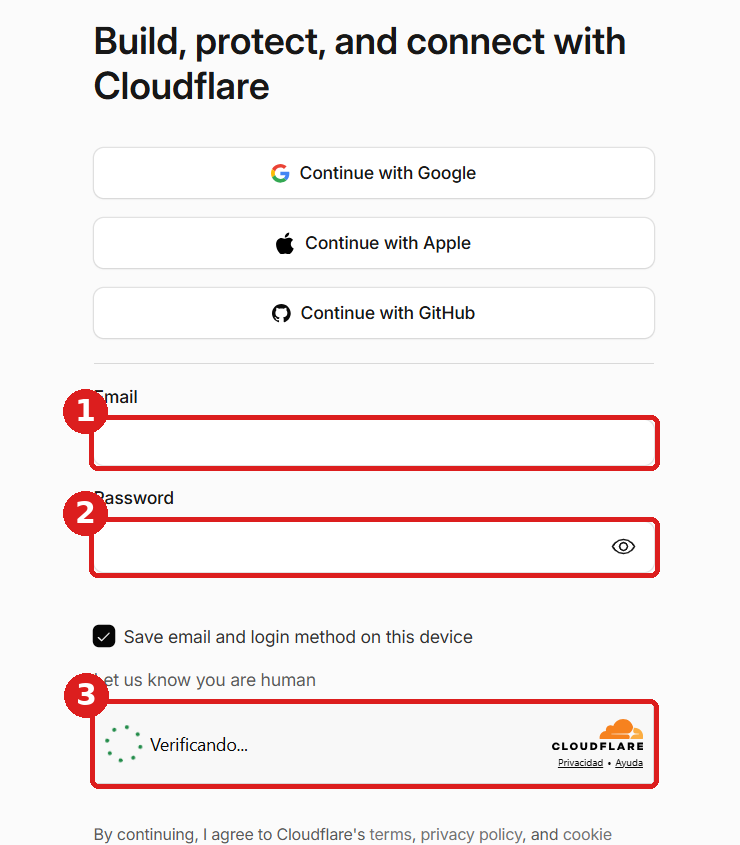
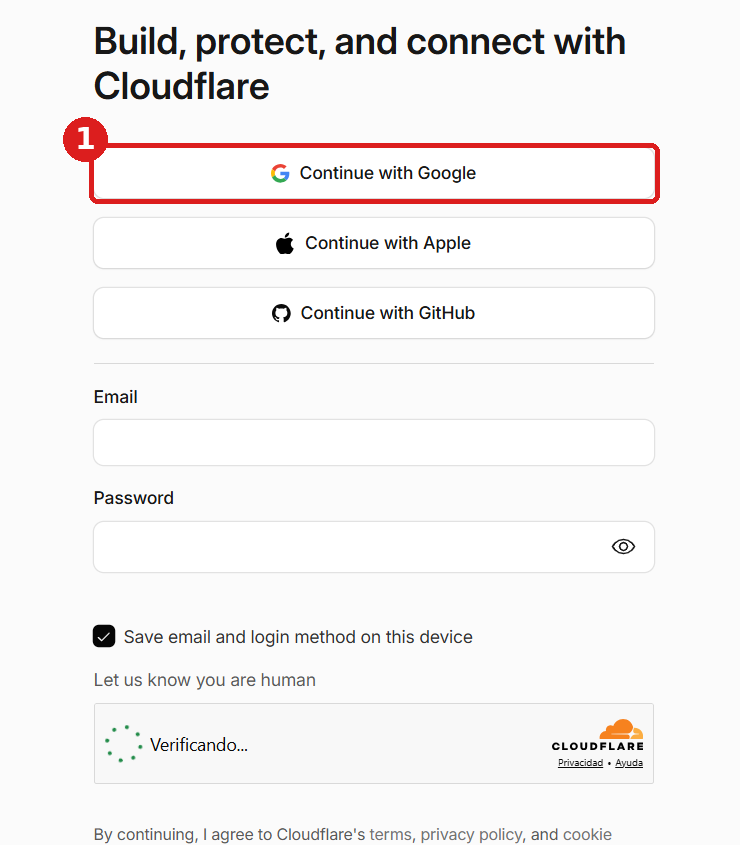
Versión 0.1.0 (2026-10-20)

diff --git a/herramientas/carpeta/marcar_capturas.py b/herramientas/carpeta/marcar_capturas.py
@@ -28,7 +28,7 @@ CAPTURAS = {
     'github-secretos': ('a824c1d8-image.png', (0, 0, 1560, 910), [(805, 58, 895, 98, '1'), (374, 688, 614, 716, '2'), (370, 718, 614, 747, '3'), (999, 604, 1164, 644, '4')], [(88, 21, 162, 47)]),
     'github-secreto-nuevo': ('45298c87-image.png', (620, 100, 1530, 560), [(643, 228, 1512, 264, '1'), (643, 296, 1512, 497, '2'), (642, 506, 738, 542, '3')], []),
     'supabase-entrar': ('5947f649-image.png', (0, 60, 740, 960), [(122, 297, 610, 358, '1')], [(128, 616, 604, 658), (128, 714, 604, 756)]),
-    'cloudflare-registro': ('9421675e-image.png', (560, 120, 1300, 965), [(649, 535, 1219, 590, '1'), (649, 637, 1219, 697, '2'), (650, 819, 1218, 908, '3')], []),
+    'cloudflare-registro': ('9421675e-image.png', (560, 120, 1300, 965), [(649, 263, 1219, 323, '1')], []),
     'github-instalar-formulario': ('98b6c0b6-image.png', (1466, 62, 1912, 970), [(1477, 211, 1903, 246, '1'), (1477, 300, 1903, 335, '2'), (1477, 389, 1903, 424, '3'), (1477, 478, 1903, 514, '4'), (1789, 925, 1904, 962, '5')], []),
     'supabase-autorizar': ('81666ce3-image.png', (690, 90, 1200, 680), [(943, 465, 1157, 503, '1')], [(730, 316, 1000, 352)]),
     'supabase-organizacion': ('ca38d780-image.png', (530, 110, 1390, 675), [(824, 250, 1361, 302, '1'), (826, 392, 1359, 439, '2'), (826, 509, 1359, 556, '3'), (1187, 618, 1361, 658, '4')], [(838, 262, 1010, 292)]),

diff --git a/herramientas/carpeta/armar_carpeta.py b/herramientas/carpeta/armar_carpeta.py
@@ -113,9 +113,9 @@ def hoja_html():
             tilde('D2', 'Llave «Instalador» cargada en GitHub como SUPABASE_ACCESS_TOKEN (la llave no se anota)'),
         ]),
         bloque('E', 'Cloudflare (paso 5)', [
-            fila('E1', 'Contraseña'), fila('E2', 'Dónde están los backup codes'),
-            fila('E3', 'Vencimiento de la llave «Instalador»', 8, 'Si no tiene, escribí «no vence»'),
-            tilde('E4', 'Llave cargada en GitHub como CLOUDFLARE_API_TOKEN (la llave no se anota)'),
+            tilde('E1', 'Se entra con «Continue with Google» y el Gmail de la institución (B1): no tiene contraseña propia'),
+            fila('E2', 'Vencimiento de la llave «Instalador»', 8, 'Si no tiene, escribí «no vence»'),
+            tilde('E3', 'Llave cargada en GitHub como CLOUDFLARE_API_TOKEN (la llave no se anota)'),
         ]),
         '<div class="F">' + bloque('F', 'Clave de respaldo (paso 6) · LA MÁS IMPORTANTE', [
             fila('F1', 'CLAVE_RESPALDO', 13, 'Inventada, mínimo 16 caracteres. Sin ella NO se pueden abrir los respaldos. Escribila con letra clara'),

diff --git a/herramientas/carpeta/textos/2-instalacion.md b/herramientas/carpeta/textos/2-instalacion.md
@@ -171,25 +171,25 @@ Supabase es donde van a estar las bases de datos (la real y la de pruebas). **No
 
 Cloudflare publica la aplicación en internet (una dirección como `inscripciones-laspalmas.pages.dev`).
 
-1. Entrar a **dash.cloudflare.com/sign-up** (crear cuenta) → **Email** (correo): el Gmail de la institución; **Password** (contraseña): una **contraseña nueva** 📝 **Anotalo ya en la hoja, casilla E1.** → **Sign up** (registrarse). **No** usar «Continue with Google / Apple / GitHub»: completar los casilleros. Abajo, en **Let us know you are human** (demostrá que sos una persona), el cuadro se verifica solo («Verificando…»); si aparece una casilla, tildarla.
+1. Entrar a **dash.cloudflare.com/sign-up** (crear cuenta) y tocar **Continue with Google** (entrar con Google). Elegir **el Gmail de la institución** (el del paso 1) y aceptar. Así Cloudflare **no tiene contraseña propia** ni hace falta verificar el correo: se entra siempre con ese Gmail. 📝 **Tildá ya en la hoja la casilla E1.** Si aparece **Let us know you are human** (demostrá que sos una persona), se verifica solo («Verificando…»); si aparece una casilla, tildarla.
 
-![Registro en Cloudflare: (1) Email, (2) Password, (3) el control de persona, que se verifica solo](img/cloudflare-registro.png)
+![Registro en Cloudflare: (1) Continue with Google, con el Gmail de la institución](img/cloudflare-registro.png)
 
-2. Abrir el Gmail: llega un correo de Cloudflare. Tocar el enlace **Verify email** (verificar el correo).
+2. Si Cloudflare manda un correo pidiendo **Verify email** (verificar el correo), abrir el Gmail y tocar el enlace. Entrando con Google, normalmente no hace falta.
 3. Si Cloudflare ofrece agregar un dominio (**Add a domain**), elegir un plan o hacer preguntas: **saltear** (**Skip**) o cerrar. No hace falta nada de eso, y nunca cargar tarjeta. Al terminar aparece la página de inicio («Ready when you are»): **no tocar** «Create app», «Add a domain» ni «Protect your app». Lo único que se usa está en el ícono de la persona, arriba a la derecha.
 
 ![Inicio de Cloudflare: (1) el ícono de la persona, arriba a la derecha. Lo demás no se toca](img/cloudflare-inicio.png)
 
-4. **Verificación en dos pasos:** ícono de la persona (arriba a la derecha) → **My Profile** (mi perfil) → **Authentication** (autenticación) → **Two-Factor Authentication** (verificación en dos pasos) → escanear el código con **Google Authenticator** (como en GitHub) → escribir el número de 6 dígitos → guardar los **backup codes** (códigos de respaldo; imprimirlos o copiarlos a mano). 📝 **Anotalo ya en la hoja, casilla E2.** (dónde quedaron guardados)
+4. **Verificación en dos pasos:** no hace falta. Como se entra con Google, la protege la verificación en dos pasos del Gmail (paso 1).
 5. Crear la **llave**. Camino corto: abrir **dash.cloudflare.com/profile/api-tokens**. (Camino largo: **My Profile** → **API Tokens** (llaves).) Tocar **Create Token** (crear llave) → bajar hasta **Create Custom Token** (llave a medida) → **Get started** (empezar).
    - **Token name** (nombre): «Instalador».
    - **Permissions** (permisos), en la primera fila elegir: **Account** → **Cloudflare Pages** → **Edit** (editar). Tocar **+ Add more** (agregar otro) y en la segunda fila: **Account** → **Account Settings** → **Read** (leer).
    - **Account Resources** (cuentas): **Include** (incluir) → la cuenta de la institución.
-   - Si aparece **TTL** (fecha de vencimiento), dejarla vacía. Si obliga a poner una, elegir la más lejana y 📝 **anotarla ya en la hoja, casilla E3**.
+   - Si aparece **TTL** (fecha de vencimiento), dejarla vacía. Si obliga a poner una, elegir la más lejana y 📝 **anotarla ya en la hoja, casilla E2**.
    - Abajo: **Continue to summary** (ver resumen) → **Create Token** (crear llave).
 6. Copiar la llave. **Se muestra una sola vez.** Dejar esa pestaña abierta y pegarla en el paso 6. ⛔ **Esta no se anota** (si se pierde, se crea otra).
 
-> 📝 **Anotá en la hoja:** E1 (contraseña), E2 (dónde guardaste los backup codes) y E3 (fecha de vencimiento de la llave, si tiene).
+> 📝 **Revisá en la hoja:** E1 tildada (se entra con Google) y E2 (vencimiento de la llave, si tiene).
 
 > ✅ **Cómo sé que salió bien:** en **My Profile → API Tokens** aparece «Instalador» con estado **Active** (activa).
 
@@ -212,7 +212,7 @@ Cloudflare publica la aplicación en internet (una dirección como `inscripcione
 
 > GitHub guarda los secrets cifrados y no los vuelve a mostrar. Si uno se carga mal, se vuelve a crear con el mismo nombre (reemplaza al anterior).
 
-> 📝 **Anotá en la hoja:** F1 (la CLAVE_RESPALDO, letra por letra: es la más importante). **Anotala antes de pegarla en GitHub**: después GitHub no la deja ver nunca más, así que la hoja es la única copia. No es una cuenta: no tiene dirección web ni usuario. Tildá también D2 y E4.
+> 📝 **Anotá en la hoja:** F1 (la CLAVE_RESPALDO, letra por letra: es la más importante). **Anotala antes de pegarla en GitHub**: después GitHub no la deja ver nunca más, así que la hoja es la única copia. No es una cuenta: no tiene dirección web ni usuario. Tildá también D2 y E3.
 
 > ✅ **Cómo sé que salió bien:** en **Secrets and variables → Actions**, debajo de **Repository secrets**, se ven los **cuatro nombres** de la tabla, escritos igual. (El valor no se ve nunca: es normal.)
 
@@ -302,7 +302,7 @@ Instalar, actualizar, despertar la base, recuperar un respaldo: **todas se usan 
 - **El sistema se revisa solo** todos los días a la mañana y, si algo necesita atención, manda un correo **en castellano** a los Responsables generales, con qué hacer. En el panel: **Estado del sistema**.
 - **Respaldos:** todos los días a la madrugada, cifrados con la CLAVE_RESPALDO (F1). Para recuperar uno: GitHub → **Actions** → **Recuperar respaldo (en la base de pruebas)**; para pasarlo a la base real, **Pasar un respaldo a la base real** (pide escribir REEMPLAZAR LA BASE REAL y se puede deshacer).
 - **Actualizaciones:** cuando salga una versión nueva, GitHub → **Actions** → **Actualizar** → **Run workflow** (botón verde de arriba a la derecha y, en el panel, **Run workflow** de abajo de todo). No se pierden datos. Si el panel dice «La base de datos está desactualizada», es la señal de que hay que tocarlo.
-- **Si vence una llave:** crear una nueva (pasos 4 o 5) y cargarla en GitHub con el mismo nombre (paso 6). Anotar el vencimiento nuevo (E3).
+- **Si vence una llave:** crear una nueva (pasos 4 o 5) y cargarla en GitHub con el mismo nombre (paso 6). Anotar el vencimiento nuevo (E2).
 - **Si una base se «duerme»:** no hay que hacer nada (se despierta sola dos veces por día). Con apuro: GitHub → **Actions** → **Despertar la base** → **Run workflow** (botón verde de arriba a la derecha y, en el panel, **Run workflow** de abajo de todo). Ver la tabla de abajo.
 - **Si cambia el Responsable general:** el nuevo se da de alta en **Personas y roles** y se le entrega esta carpeta y la Hoja de accesos.
 
